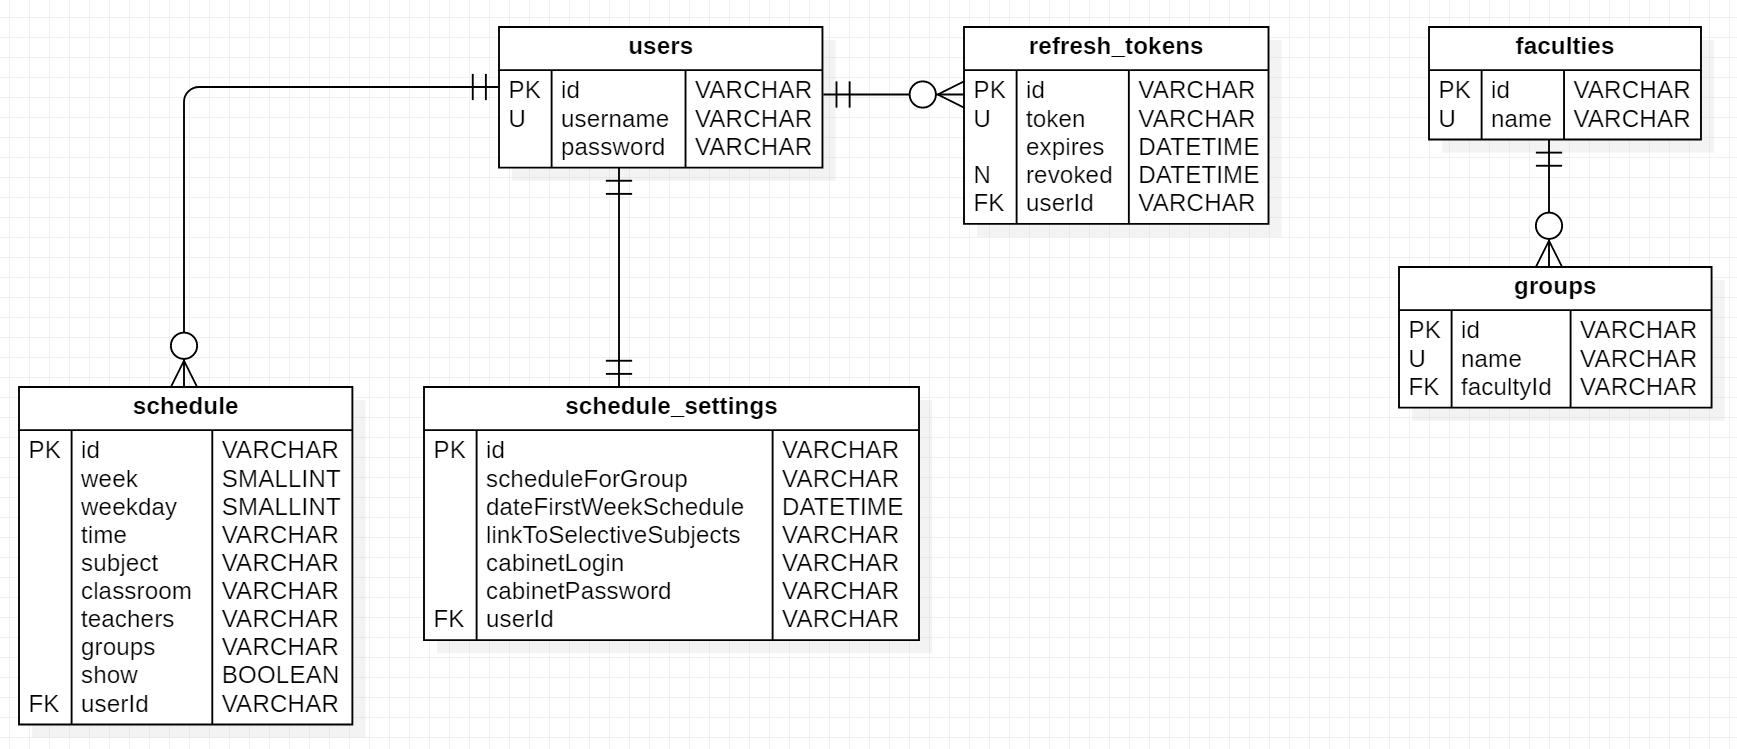
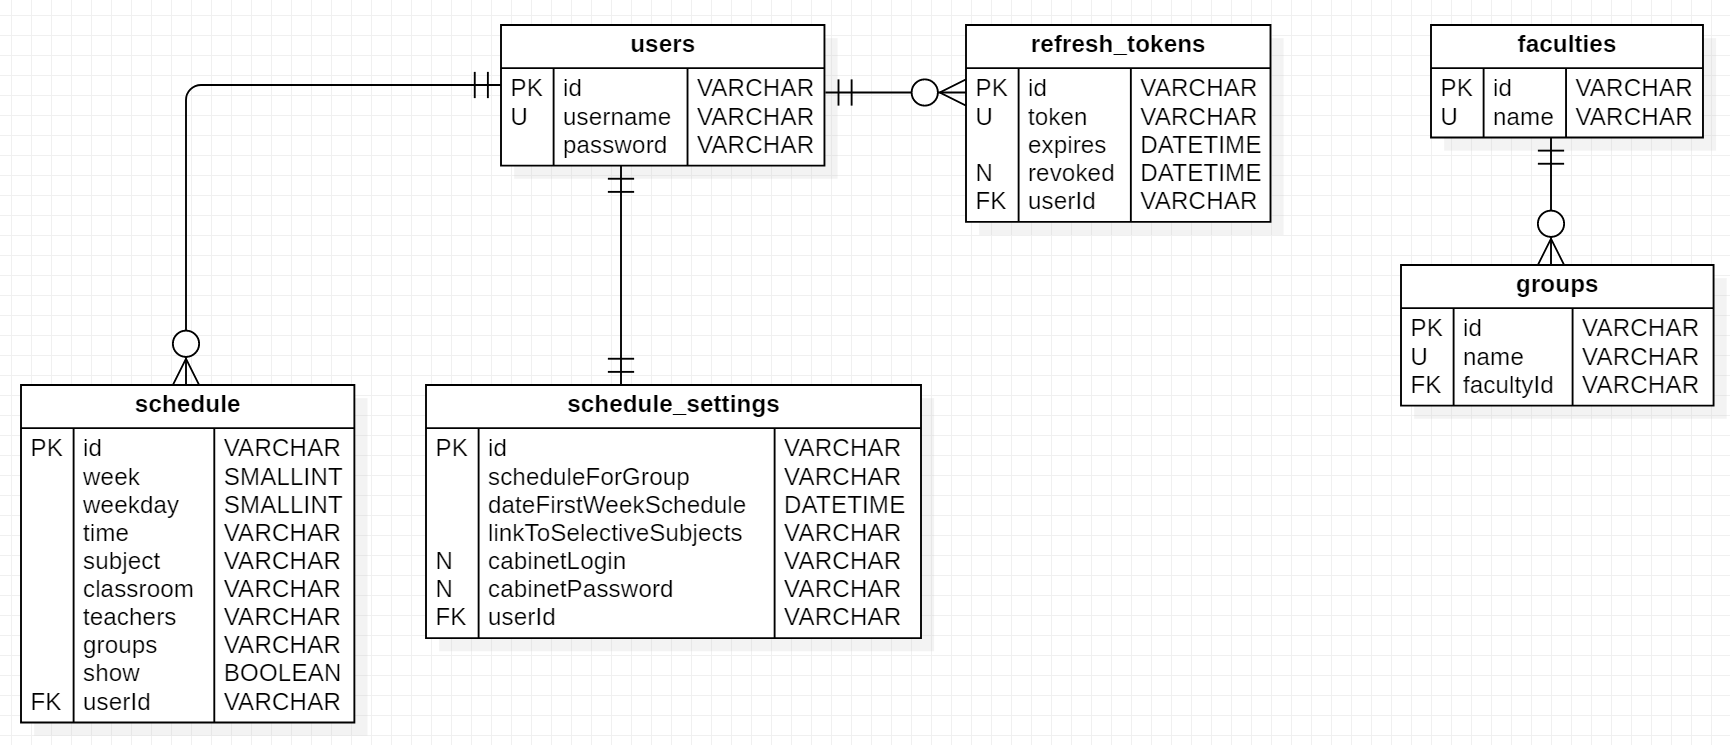
added encryption module

diff --git a/server/src/schedule-settings/schedule-settings.service.ts b/server/src/schedule-settings/schedule-settings.service.ts
@@ -9,6 +9,7 @@ import { Repository } from 'typeorm';
 
 import { UserEntity } from '../user/user.entity';
 import { ScheduleService } from '../schedule/schedule.service';
+import { EncryptionService } from '../encryption/encryption.service';
 import { UpdateScheduleSettingsDto } from './dto/update-schedule-settings.dto';
 import { ScheduleSettingsEntity } from './schedule-settings.entity';
 
@@ -19,22 +20,47 @@ export class ScheduleSettingsService {
     private readonly scheduleSettingsRepository: Repository<ScheduleSettingsEntity>,
     @Inject(forwardRef(() => ScheduleService))
     private readonly scheduleService: ScheduleService,
+    private readonly encryptionService: EncryptionService,
   ) {}
 
   async getScheduleSettings(
     user: UserEntity,
+    decryptCabinetLogin: boolean = false,
+    decryptCabinetPassword: boolean = false,
   ): Promise<ScheduleSettingsEntity | null> {
     const scheduleSettings = await this.scheduleSettingsRepository.findOneBy({
       user: { id: user.id },
     });
+
+    if (scheduleSettings && (decryptCabinetLogin || decryptCabinetPassword)) {
+      const { decryptedLogin, decryptedPassword } =
+        this.decryptCabinetLoginAndPassword(
+          scheduleSettings.cabinetLogin,
+          scheduleSettings.cabinetPassword,
+        );
+
+      if (decryptCabinetLogin) {
+        scheduleSettings.cabinetLogin = decryptedLogin;
+      }
+
+      if (decryptCabinetPassword) {
+        scheduleSettings.cabinetPassword = decryptedPassword;
+      }
+    }
 
     return scheduleSettings;
   }
 
   async getScheduleSettingsOrFail(
     user: UserEntity,
+    decryptCabinetLogin: boolean = false,
+    decryptCabinetPassword: boolean = false,
   ): Promise<ScheduleSettingsEntity> {
-    const scheduleSettings = await this.getScheduleSettings(user);
+    const scheduleSettings = await this.getScheduleSettings(
+      user,
+      decryptCabinetLogin,
+      decryptCabinetPassword,
+    );
 
     if (!scheduleSettings) {
       throw new NotFoundException('No schedule settings');
@@ -57,6 +83,9 @@ export class ScheduleSettingsService {
       cabinetPassword,
     } = updateScheduleSettingsDto;
 
+    const { encryptedLogin, encryptedPassword } =
+      this.encryptCabinetLoginAndPassword(cabinetLogin, cabinetPassword);
+
     let settings = await this.getScheduleSettings(user);
 
     // if the group is changed, then update the schedule
@@ -66,6 +95,8 @@ export class ScheduleSettingsService {
     if (!settings) {
       settings = this.scheduleSettingsRepository.create({
         ...updateScheduleSettingsDto,
+        cabinetLogin: encryptedLogin,
+        cabinetPassword: encryptedPassword,
         user,
       });
     } else {
@@ -74,10 +105,11 @@ export class ScheduleSettingsService {
       settings.linkToSelectiveSubjects = linkToSelectiveSubjects;
       settings.weekForSelectiveSubjects = weekForSelectiveSubjects;
       settings.isLoadCabinentContent = isLoadCabinentContent;
-      settings.cabinetLogin = cabinetLogin;
 
-      if (cabinetPassword) {
-        settings.cabinetPassword = cabinetPassword;
+      settings.cabinetLogin = encryptedLogin;
+
+      if (encryptedPassword) {
+        settings.cabinetPassword = encryptedPassword;
       }
     }
 
@@ -97,5 +129,41 @@ export class ScheduleSettingsService {
       { id: scheduleSettings.id },
       scheduleSettings,
     );
+  }
+
+  encryptCabinetLoginAndPassword(
+    login?: string | null,
+    password?: string | null,
+  ) {
+    let encryptedLogin: string | null = null;
+    let encryptedPassword: string | null = null;
+
+    if (login) {
+      encryptedLogin = this.encryptionService.encryption(login);
+    }
+
+    if (password) {
+      encryptedPassword = this.encryptionService.encryption(password);
+    }
+
+    return { encryptedLogin, encryptedPassword };
+  }
+
+  decryptCabinetLoginAndPassword(
+    login?: string | null,
+    password?: string | null,
+  ) {
+    let decryptedLogin: string | null = null;
+    let decryptedPassword: string | null = null;
+
+    if (login) {
+      decryptedLogin = this.encryptionService.decryption(login);
+    }
+
+    if (password) {
+      decryptedPassword = this.encryptionService.decryption(password);
+    }
+
+    return { decryptedLogin, decryptedPassword };
   }
 }

diff --git a/server/src/schedule/schedule.service.ts b/server/src/schedule/schedule.service.ts
@@ -91,7 +91,11 @@ export class ScheduleService {
     }
 
     const scheduleSettings =
-      await this.scheduleSettingsService.getScheduleSettingsOrFail(user);
+      await this.scheduleSettingsService.getScheduleSettingsOrFail(
+        user,
+        true,
+        true,
+      );
 
     const {
       times,
@@ -240,30 +244,30 @@ export class ScheduleService {
     config: ConfigProps,
     scheduleSettings: ScheduleSettingsEntity,
   ): Promise<Result<CabinetSubject[]>> {
+    const { loginCabinetPage, scheduleCabinetPage } = config.links;
+    const { cabinetLogin, cabinetPassword } = scheduleSettings;
+
     if (
-      !config.links.loginCabinetPage ||
-      !config.links.scheduleCabinetPage ||
-      !scheduleSettings.cabinetLogin ||
-      !scheduleSettings.cabinetPassword
+      !loginCabinetPage ||
+      !scheduleCabinetPage ||
+      !cabinetLogin ||
+      !cabinetPassword
     ) {
       return Result.failure('There are no cabinet settings for parsing.');
     }
 
     try {
       const cabinetSubjects = await parsingScheduleCabinet(
-        config.links.loginCabinetPage,
-        config.links.scheduleCabinetPage,
-        scheduleSettings.cabinetLogin,
-        scheduleSettings.cabinetPassword,
+        loginCabinetPage,
+        scheduleCabinetPage,
+        cabinetLogin,
+        cabinetPassword,
       );
 
       return Result.success(cabinetSubjects);
     } catch (error: any) {
-      console.log(error.message);
-
-      return Result.failure(
-        'An error occurred while parsing the schedule from the cabinet.',
-      );
+      // An error occurred while parsing the schedule from the cabinet
+      return Result.failure(error.message);
     }
   }
 

diff --git a/server/src/encryption/encryption.service.ts b/server/src/encryption/encryption.service.ts
@@ -1,0 +1,42 @@
+import * as crypto from 'crypto';
+
+import { Injectable, InternalServerErrorException } from '@nestjs/common';
+
+import configuration from '../config/configuration';
+import { EncryptionConfig } from './interfaces/encryption-config.interface';
+
+@Injectable()
+export class EncryptionService {
+  encryption(dataToCrypt: string): string {
+    const { algorithm, key, iv } = this.getEncryptionConfig();
+
+    const cipher = crypto.createCipheriv(algorithm, key, iv);
+
+    let encrypted = cipher.update(dataToCrypt, 'utf8', 'hex');
+    encrypted += cipher.final('hex');
+
+    return encrypted;
+  }
+
+  decryption(dataToDecrypt: string): string {
+    const { algorithm, key, iv } = this.getEncryptionConfig();
+
+    const decipher = crypto.createDecipheriv(algorithm, key, iv);
+
+    let decrypted = decipher.update(dataToDecrypt, 'hex', 'utf8');
+    decrypted += decipher.final('utf8');
+
+    return decrypted;
+  }
+
+  getEncryptionConfig(): EncryptionConfig {
+    const config = configuration();
+    const { algorithm, key, iv } = config.encryption;
+
+    if (!algorithm || !key || !iv) {
+      throw new InternalServerErrorException();
+    }
+
+    return { algorithm, key, iv };
+  }
+}

diff --git a/server/src/schedule-settings/schedule-settings.module.ts b/server/src/schedule-settings/schedule-settings.module.ts
@@ -2,6 +2,7 @@ import { Module, forwardRef } from '@nestjs/common';
 import { TypeOrmModule } from '@nestjs/typeorm';
 
 import { ScheduleModule } from '../schedule/schedule.module';
+import { EncryptionModule } from '../encryption/encryption.module';
 import { ScheduleSettingsController } from './schedule-settings.controller';
 import { ScheduleSettingsService } from './schedule-settings.service';
 import { ScheduleSettingsEntity } from './schedule-settings.entity';
@@ -10,6 +11,7 @@ import { ScheduleSettingsEntity } from './schedule-settings.entity';
   imports: [
     TypeOrmModule.forFeature([ScheduleSettingsEntity]),
     forwardRef(() => ScheduleModule),
+    EncryptionModule,
   ],
   controllers: [ScheduleSettingsController],
   providers: [ScheduleSettingsService],

diff --git a/server/src/app.module.ts b/server/src/app.module.ts
@@ -10,6 +10,7 @@ import { AuthModule } from './auth/auth.module';
 import { UserModule } from './user/user.module';
 import { RefreshTokenModule } from './refresh-token/refresh-token.module';
 import { GroupModule } from './group/group.module';
+import { EncryptionModule } from './encryption/encryption.module';
 
 @Module({
   imports: [
@@ -38,6 +39,7 @@ import { GroupModule } from './group/group.module';
     AuthModule,
     RefreshTokenModule,
     GroupModule,
+    EncryptionModule,
   ],
 })
 export class AppModule {}

diff --git a/server/src/schedule-settings/schedule-settings.entity.ts b/server/src/schedule-settings/schedule-settings.entity.ts
@@ -29,12 +29,12 @@ export class ScheduleSettingsEntity {
   @Column({ default: false })
   isLoadCabinentContent: boolean;
 
-  @Column({ nullable: true })
-  cabinetLogin?: string;
+  @Column('varchar', { nullable: true })
+  cabinetLogin: string | null;
 
   @Exclude()
-  @Column({ nullable: true })
-  cabinetPassword?: string;
+  @Column('varchar', { nullable: true })
+  cabinetPassword: string | null;
 
   @Exclude()
   @Column('simple-array', { default: '' })

diff --git a/server/src/config/config.schema.ts b/server/src/config/config.schema.ts
@@ -8,6 +8,10 @@ export const configValidationSchema = Joi.object({
 
   FRONTEND_URL: Joi.string().required(),
 
+  ENCRYPTION_ALGORITHM: Joi.string().default('aes-256-cbc'),
+  ENCRYPTION_KEY: Joi.string().required(),
+  ENCRYPTION_IV: Joi.string().required(),
+
   JWT_ACCESS_TOKEN_SECRET: Joi.string().required(),
   JWT_ACCESS_TOKEN_EXPIRATION_TIME: Joi.string().required(),
   JWT_REFRESH_TOKEN_SECRET: Joi.string().required(),

diff --git a/server/src/config/configuration.ts b/server/src/config/configuration.ts
@@ -7,6 +7,11 @@ export default (): ConfigProps => ({
     sqlite: process.env.SQLITE_DATABASE,
   },
   frontendUrl: process.env.FRONTEND_URL,
+  encryption: {
+    algorithm: process.env.ENCRYPTION_ALGORITHM,
+    key: process.env.ENCRYPTION_KEY,
+    iv: process.env.ENCRYPTION_IV,
+  },
   jwtAccess: {
     secret: process.env.JWT_ACCESS_TOKEN_SECRET,
     expiresIn: process.env.JWT_ACCESS_TOKEN_EXPIRATION_TIME,

diff --git a/server/src/schedule-settings/schedule-settings.controller.ts b/server/src/schedule-settings/schedule-settings.controller.ts
@@ -16,7 +16,7 @@ export class ScheduleSettingsController {
   getScheduleSettings(
     @GetUser() user: UserEntity,
   ): Promise<ScheduleSettingsEntity | null> {
-    return this.scheduleSettingsService.getScheduleSettings(user);
+    return this.scheduleSettingsService.getScheduleSettings(user, true);
   }
 
   @Put()

diff --git a/server/src/config/config.interface.ts b/server/src/config/config.interface.ts
@@ -5,6 +5,11 @@ export default interface ConfigProps {
     sqlite?: string;
   };
   frontendUrl?: string;
+  encryption: {
+    algorithm?: string;
+    key?: string;
+    iv?: string;
+  };
   jwtAccess: {
     secret?: string;
     expiresIn?: string;

diff --git a/server/src/encryption/encryption.module.ts b/server/src/encryption/encryption.module.ts
@@ -1,0 +1,9 @@
+import { Module } from '@nestjs/common';
+
+import { EncryptionService } from './encryption.service';
+
+@Module({
+  providers: [EncryptionService],
+  exports: [EncryptionService],
+})
+export class EncryptionModule {}

diff --git a/server/src/encryption/interfaces/encryption-config.interface.ts b/server/src/encryption/interfaces/encryption-config.interface.ts
@@ -1,0 +1,5 @@
+export interface EncryptionConfig {
+  algorithm: string;
+  key: string;
+  iv: string;
+}
